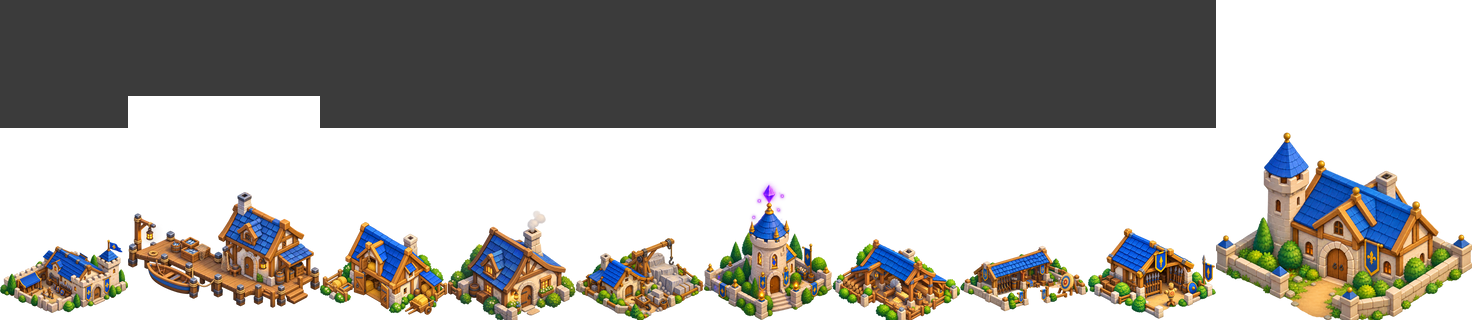
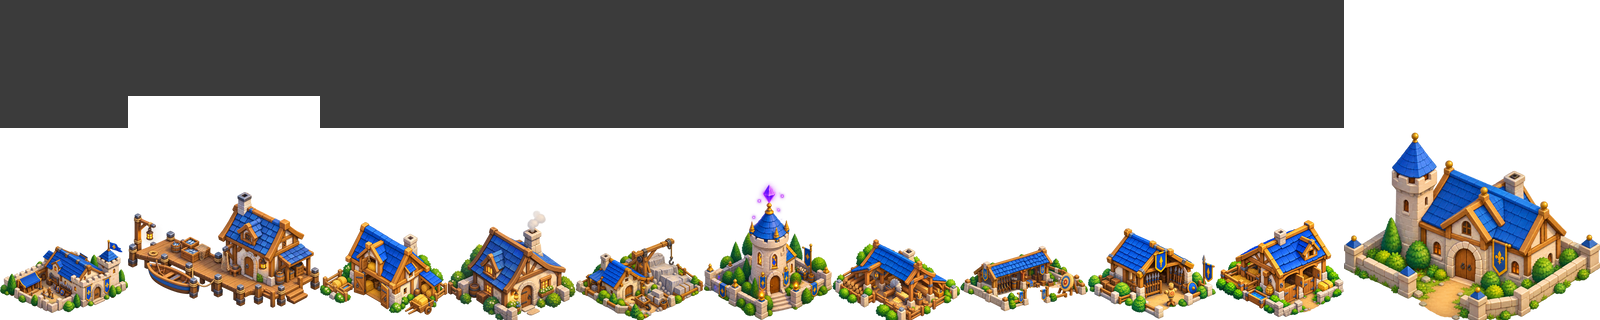
art(city): Stables

diff --git a/Docs/art/city/scene.html b/Docs/art/city/scene.html
@@ -46,7 +46,7 @@ code{font-family:ui-monospace,monospace;font-size:.92em}
 </style></head><body class="">
 <header>
   <h1>Kingdom — the isometric city set</h1>
-  <span class="meta">2:1 · tile 128×64 · <strong id="n">10/22</strong> sprites</span>
+  <span class="meta">2:1 · tile 128×64 · <strong id="n">11/22</strong> sprites</span>
   <span class="ctl">
     <button id="m1" aria-pressed="true">Showcase</button>
     <button id="m2" aria-pressed="false">Village</button>
@@ -118,7 +118,7 @@ code{font-family:ui-monospace,monospace;font-size:.92em}
       <figcaption>Spear Hall<em>1×1</em></figcaption>
     </figure><figure class="card" style="width:150px">
       <div class="slot" style="width:128px;height:192px">
-        <svg class="grid" width="128" height="192"><path class="t on" d="M64 128l64 32l-64 32l-64 -32z"/></svg><div class="miss" style="left:0px;top:128px;width:128px;height:64px"><span>soon</span></div></div>
+        <svg class="grid" width="128" height="192"><path class="t on" d="M64 128l64 32l-64 32l-64 -32z"/></svg><img src="stables_l1.png" alt="Stables" width="128" height="192"></div>
       <figcaption>Stables<em>1×1</em></figcaption>
     </figure><figure class="card" style="width:256px">
       <div class="slot" style="width:256px;height:320px">
@@ -146,7 +146,7 @@ code{font-family:ui-monospace,monospace;font-size:.92em}
       <figcaption>Well<em>1×1 · decoration</em></figcaption>
     </figure></div>
   <div id="v2" hidden><div class="stage" style="width:1688px;height:824px">
-<svg class="grid" width="1688" height="824"><path class="t" d="M844 300l64 32l-64 32l-64 -32z"/><path class="t" d="M780 332l64 32l-64 32l-64 -32z"/><path class="t" d="M716 364l64 32l-64 32l-64 -32z"/><path class="t on" d="M652 396l64 32l-64 32l-64 -32z"/><path class="t" d="M908 332l64 32l-64 32l-64 -32z"/><path class="t on" d="M844 364l64 32l-64 32l-64 -32z"/><path class="t on" d="M780 396l64 32l-64 32l-64 -32z"/><path class="t on" d="M716 428l64 32l-64 32l-64 -32z"/><path class="t" d="M972 364l64 32l-64 32l-64 -32z"/><path class="t on" d="M908 396l64 32l-64 32l-64 -32z"/><path class="t on" d="M844 428l64 32l-64 32l-64 -32z"/><path class="t on" d="M780 460l64 32l-64 32l-64 -32z"/><path class="t" d="M1036 396l64 32l-64 32l-64 -32z"/><path class="t on" d="M972 428l64 32l-64 32l-64 -32z"/><path class="t on" d="M908 460l64 32l-64 32l-64 -32z"/><path class="t" d="M844 492l64 32l-64 32l-64 -32z"/><path class="t" d="M908 204l64 32l-64 32l-64 -32z"/><path class="t" d="M844 236l64 32l-64 32l-64 -32z"/><path class="t on" d="M780 268l64 32l-64 32l-64 -32z"/><path class="t" d="M972 236l64 32l-64 32l-64 -32z"/><path class="t on" d="M908 268l64 32l-64 32l-64 -32z"/><path class="t" d="M1036 268l64 32l-64 32l-64 -32z"/><path class="t on" d="M972 300l64 32l-64 32l-64 -32z"/><path class="t" d="M1100 300l64 32l-64 32l-64 -32z"/><path class="t on" d="M1036 332l64 32l-64 32l-64 -32z"/><path class="t" d="M1164 332l64 32l-64 32l-64 -32z"/><path class="t" d="M1100 364l64 32l-64 32l-64 -32z"/><path class="t" d="M780 204l64 32l-64 32l-64 -32z"/><path class="t" d="M716 236l64 32l-64 32l-64 -32z"/><path class="t" d="M652 268l64 32l-64 32l-64 -32z"/><path class="t on" d="M716 300l64 32l-64 32l-64 -32z"/><path class="t" d="M588 300l64 32l-64 32l-64 -32z"/><path class="t" d="M652 332l64 32l-64 32l-64 -32z"/><path class="t" d="M1164 396l64 32l-64 32l-64 -32z"/><path class="t on" d="M1100 428l64 32l-64 32l-64 -32z"/><path class="t on" d="M1036 460l64 32l-64 32l-64 -32z"/><path class="t" d="M1228 428l64 32l-64 32l-64 -32z"/><path class="t" d="M1164 460l64 32l-64 32l-64 -32z"/><path class="t" d="M1100 492l64 32l-64 32l-64 -32z"/><path class="t on" d="M972 492l64 32l-64 32l-64 -32z"/><path class="t" d="M908 524l64 32l-64 32l-64 -32z"/><path class="t" d="M1036 524l64 32l-64 32l-64 -32z"/><path class="t" d="M972 556l64 32l-64 32l-64 -32z"/><path class="t on" d="M524 332l64 32l-64 32l-64 -32z"/><path class="t" d="M460 364l64 32l-64 32l-64 -32z"/><path class="t" d="M396 396l64 32l-64 32l-64 -32z"/><path class="t" d="M588 364l64 32l-64 32l-64 -32z"/><path class="t on" d="M524 396l64 32l-64 32l-64 -32z"/><path class="t" d="M460 428l64 32l-64 32l-64 -32z"/><path class="t" d="M588 428l64 32l-64 32l-64 -32z"/><path class="t" d="M524 460l64 32l-64 32l-64 -32z"/><path class="t" d="M716 492l64 32l-64 32l-64 -32z"/><path class="t on" d="M652 524l64 32l-64 32l-64 -32z"/><path class="t on" d="M780 524l64 32l-64 32l-64 -32z"/><path class="t" d="M716 556l64 32l-64 32l-64 -32z"/><path class="t" d="M844 556l64 32l-64 32l-64 -32z"/><path class="t" d="M780 588l64 32l-64 32l-64 -32z"/><path class="t on" d="M460 492l64 32l-64 32l-64 -32z"/><path class="t" d="M652 460l64 32l-64 32l-64 -32z"/><path class="t on" d="M588 492l64 32l-64 32l-64 -32z"/><path class="t" d="M524 524l64 32l-64 32l-64 -32z"/><path class="t" d="M588 556l64 32l-64 32l-64 -32z"/><path class="t on" d="M652 588l64 32l-64 32l-64 -32z"/><path class="t" d="M524 588l64 32l-64 32l-64 -32z"/><path class="t" d="M588 620l64 32l-64 32l-64 -32z"/><path class="t on" d="M716 620l64 32l-64 32l-64 -32z"/><path class="t" d="M652 652l64 32l-64 32l-64 -32z"/><path class="t" d="M844 620l64 32l-64 32l-64 -32z"/><path class="t" d="M780 652l64 32l-64 32l-64 -32z"/><path class="t" d="M716 684l64 32l-64 32l-64 -32z"/><path class="t" d="M396 460l64 32l-64 32l-64 -32z"/><path class="t" d="M332 492l64 32l-64 32l-64 -32z"/><path class="t" d="M396 524l64 32l-64 32l-64 -32z"/><path class="t" d="M460 556l64 32l-64 32l-64 -32z"/><path class="t" d="M1292 460l64 32l-64 32l-64 -32z"/><path class="t on" d="M1228 492l64 32l-64 32l-64 -32z"/><path class="t" d="M1164 524l64 32l-64 32l-64 -32z"/><path class="t" d="M1356 492l64 32l-64 32l-64 -32z"/><path class="t" d="M1292 524l64 32l-64 32l-64 -32z"/><path class="t" d="M1228 556l64 32l-64 32l-64 -32z"/><path class="t on" d="M1100 556l64 32l-64 32l-64 -32z"/><path class="t" d="M1036 588l64 32l-64 32l-64 -32z"/><path class="t" d="M1164 588l64 32l-64 32l-64 -32z"/><path class="t" d="M1100 620l64 32l-64 32l-64 -32z"/><path class="t" d="M908 588l64 32l-64 32l-64 -32z"/><path class="t on" d="M972 620l64 32l-64 32l-64 -32z"/><path class="t" d="M908 652l64 32l-64 32l-64 -32z"/><path class="t" d="M1036 652l64 32l-64 32l-64 -32z"/><path class="t" d="M972 684l64 32l-64 32l-64 -32z"/><path class="t" d="M1292 332l64 32l-64 32l-64 -32z"/><path class="t" d="M1228 364l64 32l-64 32l-64 -32z"/><path class="t" d="M1356 364l64 32l-64 32l-64 -32z"/><path class="t on" d="M1292 396l64 32l-64 32l-64 -32z"/><path class="t" d="M1420 396l64 32l-64 32l-64 -32z"/><path class="t" d="M1356 428l64 32l-64 32l-64 -32z"/><path class="t" d="M460 236l64 32l-64 32l-64 -32z"/><path class="t" d="M396 268l64 32l-64 32l-64 -32z"/><path class="t" d="M332 300l64 32l-64 32l-64 -32z"/><path class="t" d="M524 268l64 32l-64 32l-64 -32z"/><path class="t on" d="M460 300l64 32l-64 32l-64 -32z"/><path class="t" d="M396 332l64 32l-64 32l-64 -32z"/><path class="t" d="M268 332l64 32l-64 32l-64 -32z"/><path class="t" d="M204 364l64 32l-64 32l-64 -32z"/><path class="t" d="M140 396l64 32l-64 32l-64 -32z"/><path class="t" d="M76 428l64 32l-64 32l-64 -32z"/><path class="t" d="M332 364l64 32l-64 32l-64 -32z"/><path class="t on" d="M268 396l64 32l-64 32l-64 -32z"/><path class="t on" d="M204 428l64 32l-64 32l-64 -32z"/><path class="t" d="M140 460l64 32l-64 32l-64 -32z"/><path class="t on" d="M332 428l64 32l-64 32l-64 -32z"/><path class="t on" d="M268 460l64 32l-64 32l-64 -32z"/><path class="t" d="M204 492l64 32l-64 32l-64 -32z"/><path class="t" d="M268 524l64 32l-64 32l-64 -32z"/><path class="t" d="M1484 428l64 32l-64 32l-64 -32z"/><path class="t on" d="M1420 460l64 32l-64 32l-64 -32z"/><path class="t" d="M1548 460l64 32l-64 32l-64 -32z"/><path class="t on" d="M1484 492l64 32l-64 32l-64 -32z"/><path class="t" d="M1420 524l64 32l-64 32l-64 -32z"/><path class="t" d="M1612 492l64 32l-64 32l-64 -32z"/><path class="t" d="M1548 524l64 32l-64 32l-64 -32z"/><path class="t" d="M1484 556l64 32l-64 32l-64 -32z"/></svg><figure style="left:844px;top:140px;width:128px"><img src="housing_l1.png" alt="Housing" width="128" height="192"></figure><figure style="left:716px;top:140px;width:128px"><img src="housing_l1.png" alt="Housing" width="128" height="192"></figure><figure style="left:908px;top:172px;width:128px"><img src="housing_l1.png" alt="Housing" width="128" height="192"></figure><figure style="left:652px;top:172px;width:128px"><img src="housing_l1.png" alt="Housing" width="128" height="192"></figure><figure style="left:396px;top:172px;width:192px"><img src="docks_l1.png" alt="Docks" width="192" height="224"></figure><figure style="left:972px;top:204px;width:128px"><img src="housing_l1.png" alt="Housing" width="128" height="192"></figure><figure style="left:716px;top:172px;width:256px"><img src="townhall_l1.png" alt="Townhall" width="256" height="320"></figure><figure style="left:460px;top:268px;width:128px"><img src="quarry_l1.png" alt="Quarry" width="128" height="192"></figure><div class="miss" style="left:1228px;top:396px;width:128px;height:64px"><span>Rune Carver</span></div><div class="miss" style="left:140px;top:396px;width:256px;height:128px"><span>Shrine</span></div><div class="miss" style="left:588px;top:396px;width:128px;height:64px"><span>Garden</span></div><figure style="left:1036px;top:300px;width:128px"><img src="farm_l1.png" alt="Farm" width="128" height="192"></figure><div class="miss" style="left:844px;top:428px;width:256px;height:128px"><span>Plaza</span></div><div class="miss" style="left:652px;top:428px;width:128px;height:64px"><span>Statue</span></div><div class="miss" style="left:1356px;top:460px;width:192px;height:96px"><span>Orchard</span></div><div class="miss" style="left:716px;top:460px;width:128px;height:64px"><span>Well</span></div><figure style="left:908px;top:364px;width:128px"><img src="sawmill_l1.png" alt="Sawmill" width="128" height="192"></figure><figure style="left:524px;top:364px;width:128px"><img src="barracks_l1.png" alt="Barracks" width="128" height="192"></figure><div class="miss" style="left:396px;top:492px;width:128px;height:64px"><span>Infirmary</span></div><div class="miss" style="left:1164px;top:492px;width:128px;height:64px"><span>Carpenter</span></div><figure style="left:716px;top:396px;width:128px"><img src="sanctum_l1.png" alt="Sanctum" width="128" height="192"></figure><figure style="left:588px;top:396px;width:128px"><img src="spear_hall_l1.png" alt="Spear Hall" width="128" height="192"></figure><div class="miss" style="left:1036px;top:556px;width:128px;height:64px"><span>Mason's Yard</span></div><figure style="left:588px;top:460px;width:128px"><img src="shooting_grounds_l1.png" alt="Shooting Grounds" width="128" height="192"></figure><div class="miss" style="left:652px;top:620px;width:128px;height:64px"><span>Stables</span></div><div class="miss" style="left:908px;top:620px;width:128px;height:64px"><span>Smelter</span></div></div></div>
+<svg class="grid" width="1688" height="824"><path class="t" d="M844 300l64 32l-64 32l-64 -32z"/><path class="t" d="M780 332l64 32l-64 32l-64 -32z"/><path class="t" d="M716 364l64 32l-64 32l-64 -32z"/><path class="t on" d="M652 396l64 32l-64 32l-64 -32z"/><path class="t" d="M908 332l64 32l-64 32l-64 -32z"/><path class="t on" d="M844 364l64 32l-64 32l-64 -32z"/><path class="t on" d="M780 396l64 32l-64 32l-64 -32z"/><path class="t on" d="M716 428l64 32l-64 32l-64 -32z"/><path class="t" d="M972 364l64 32l-64 32l-64 -32z"/><path class="t on" d="M908 396l64 32l-64 32l-64 -32z"/><path class="t on" d="M844 428l64 32l-64 32l-64 -32z"/><path class="t on" d="M780 460l64 32l-64 32l-64 -32z"/><path class="t" d="M1036 396l64 32l-64 32l-64 -32z"/><path class="t on" d="M972 428l64 32l-64 32l-64 -32z"/><path class="t on" d="M908 460l64 32l-64 32l-64 -32z"/><path class="t" d="M844 492l64 32l-64 32l-64 -32z"/><path class="t" d="M908 204l64 32l-64 32l-64 -32z"/><path class="t" d="M844 236l64 32l-64 32l-64 -32z"/><path class="t on" d="M780 268l64 32l-64 32l-64 -32z"/><path class="t" d="M972 236l64 32l-64 32l-64 -32z"/><path class="t on" d="M908 268l64 32l-64 32l-64 -32z"/><path class="t" d="M1036 268l64 32l-64 32l-64 -32z"/><path class="t on" d="M972 300l64 32l-64 32l-64 -32z"/><path class="t" d="M1100 300l64 32l-64 32l-64 -32z"/><path class="t on" d="M1036 332l64 32l-64 32l-64 -32z"/><path class="t" d="M1164 332l64 32l-64 32l-64 -32z"/><path class="t" d="M1100 364l64 32l-64 32l-64 -32z"/><path class="t" d="M780 204l64 32l-64 32l-64 -32z"/><path class="t" d="M716 236l64 32l-64 32l-64 -32z"/><path class="t" d="M652 268l64 32l-64 32l-64 -32z"/><path class="t on" d="M716 300l64 32l-64 32l-64 -32z"/><path class="t" d="M588 300l64 32l-64 32l-64 -32z"/><path class="t" d="M652 332l64 32l-64 32l-64 -32z"/><path class="t" d="M1164 396l64 32l-64 32l-64 -32z"/><path class="t on" d="M1100 428l64 32l-64 32l-64 -32z"/><path class="t on" d="M1036 460l64 32l-64 32l-64 -32z"/><path class="t" d="M1228 428l64 32l-64 32l-64 -32z"/><path class="t" d="M1164 460l64 32l-64 32l-64 -32z"/><path class="t" d="M1100 492l64 32l-64 32l-64 -32z"/><path class="t on" d="M972 492l64 32l-64 32l-64 -32z"/><path class="t" d="M908 524l64 32l-64 32l-64 -32z"/><path class="t" d="M1036 524l64 32l-64 32l-64 -32z"/><path class="t" d="M972 556l64 32l-64 32l-64 -32z"/><path class="t on" d="M524 332l64 32l-64 32l-64 -32z"/><path class="t" d="M460 364l64 32l-64 32l-64 -32z"/><path class="t" d="M396 396l64 32l-64 32l-64 -32z"/><path class="t" d="M588 364l64 32l-64 32l-64 -32z"/><path class="t on" d="M524 396l64 32l-64 32l-64 -32z"/><path class="t" d="M460 428l64 32l-64 32l-64 -32z"/><path class="t" d="M588 428l64 32l-64 32l-64 -32z"/><path class="t" d="M524 460l64 32l-64 32l-64 -32z"/><path class="t" d="M716 492l64 32l-64 32l-64 -32z"/><path class="t on" d="M652 524l64 32l-64 32l-64 -32z"/><path class="t on" d="M780 524l64 32l-64 32l-64 -32z"/><path class="t" d="M716 556l64 32l-64 32l-64 -32z"/><path class="t" d="M844 556l64 32l-64 32l-64 -32z"/><path class="t" d="M780 588l64 32l-64 32l-64 -32z"/><path class="t on" d="M460 492l64 32l-64 32l-64 -32z"/><path class="t" d="M652 460l64 32l-64 32l-64 -32z"/><path class="t on" d="M588 492l64 32l-64 32l-64 -32z"/><path class="t" d="M524 524l64 32l-64 32l-64 -32z"/><path class="t" d="M588 556l64 32l-64 32l-64 -32z"/><path class="t on" d="M652 588l64 32l-64 32l-64 -32z"/><path class="t" d="M524 588l64 32l-64 32l-64 -32z"/><path class="t" d="M588 620l64 32l-64 32l-64 -32z"/><path class="t on" d="M716 620l64 32l-64 32l-64 -32z"/><path class="t" d="M652 652l64 32l-64 32l-64 -32z"/><path class="t" d="M844 620l64 32l-64 32l-64 -32z"/><path class="t" d="M780 652l64 32l-64 32l-64 -32z"/><path class="t" d="M716 684l64 32l-64 32l-64 -32z"/><path class="t" d="M396 460l64 32l-64 32l-64 -32z"/><path class="t" d="M332 492l64 32l-64 32l-64 -32z"/><path class="t" d="M396 524l64 32l-64 32l-64 -32z"/><path class="t" d="M460 556l64 32l-64 32l-64 -32z"/><path class="t" d="M1292 460l64 32l-64 32l-64 -32z"/><path class="t on" d="M1228 492l64 32l-64 32l-64 -32z"/><path class="t" d="M1164 524l64 32l-64 32l-64 -32z"/><path class="t" d="M1356 492l64 32l-64 32l-64 -32z"/><path class="t" d="M1292 524l64 32l-64 32l-64 -32z"/><path class="t" d="M1228 556l64 32l-64 32l-64 -32z"/><path class="t on" d="M1100 556l64 32l-64 32l-64 -32z"/><path class="t" d="M1036 588l64 32l-64 32l-64 -32z"/><path class="t" d="M1164 588l64 32l-64 32l-64 -32z"/><path class="t" d="M1100 620l64 32l-64 32l-64 -32z"/><path class="t" d="M908 588l64 32l-64 32l-64 -32z"/><path class="t on" d="M972 620l64 32l-64 32l-64 -32z"/><path class="t" d="M908 652l64 32l-64 32l-64 -32z"/><path class="t" d="M1036 652l64 32l-64 32l-64 -32z"/><path class="t" d="M972 684l64 32l-64 32l-64 -32z"/><path class="t" d="M1292 332l64 32l-64 32l-64 -32z"/><path class="t" d="M1228 364l64 32l-64 32l-64 -32z"/><path class="t" d="M1356 364l64 32l-64 32l-64 -32z"/><path class="t on" d="M1292 396l64 32l-64 32l-64 -32z"/><path class="t" d="M1420 396l64 32l-64 32l-64 -32z"/><path class="t" d="M1356 428l64 32l-64 32l-64 -32z"/><path class="t" d="M460 236l64 32l-64 32l-64 -32z"/><path class="t" d="M396 268l64 32l-64 32l-64 -32z"/><path class="t" d="M332 300l64 32l-64 32l-64 -32z"/><path class="t" d="M524 268l64 32l-64 32l-64 -32z"/><path class="t on" d="M460 300l64 32l-64 32l-64 -32z"/><path class="t" d="M396 332l64 32l-64 32l-64 -32z"/><path class="t" d="M268 332l64 32l-64 32l-64 -32z"/><path class="t" d="M204 364l64 32l-64 32l-64 -32z"/><path class="t" d="M140 396l64 32l-64 32l-64 -32z"/><path class="t" d="M76 428l64 32l-64 32l-64 -32z"/><path class="t" d="M332 364l64 32l-64 32l-64 -32z"/><path class="t on" d="M268 396l64 32l-64 32l-64 -32z"/><path class="t on" d="M204 428l64 32l-64 32l-64 -32z"/><path class="t" d="M140 460l64 32l-64 32l-64 -32z"/><path class="t on" d="M332 428l64 32l-64 32l-64 -32z"/><path class="t on" d="M268 460l64 32l-64 32l-64 -32z"/><path class="t" d="M204 492l64 32l-64 32l-64 -32z"/><path class="t" d="M268 524l64 32l-64 32l-64 -32z"/><path class="t" d="M1484 428l64 32l-64 32l-64 -32z"/><path class="t on" d="M1420 460l64 32l-64 32l-64 -32z"/><path class="t" d="M1548 460l64 32l-64 32l-64 -32z"/><path class="t on" d="M1484 492l64 32l-64 32l-64 -32z"/><path class="t" d="M1420 524l64 32l-64 32l-64 -32z"/><path class="t" d="M1612 492l64 32l-64 32l-64 -32z"/><path class="t" d="M1548 524l64 32l-64 32l-64 -32z"/><path class="t" d="M1484 556l64 32l-64 32l-64 -32z"/></svg><figure style="left:844px;top:140px;width:128px"><img src="housing_l1.png" alt="Housing" width="128" height="192"></figure><figure style="left:716px;top:140px;width:128px"><img src="housing_l1.png" alt="Housing" width="128" height="192"></figure><figure style="left:908px;top:172px;width:128px"><img src="housing_l1.png" alt="Housing" width="128" height="192"></figure><figure style="left:652px;top:172px;width:128px"><img src="housing_l1.png" alt="Housing" width="128" height="192"></figure><figure style="left:396px;top:172px;width:192px"><img src="docks_l1.png" alt="Docks" width="192" height="224"></figure><figure style="left:972px;top:204px;width:128px"><img src="housing_l1.png" alt="Housing" width="128" height="192"></figure><figure style="left:716px;top:172px;width:256px"><img src="townhall_l1.png" alt="Townhall" width="256" height="320"></figure><figure style="left:460px;top:268px;width:128px"><img src="quarry_l1.png" alt="Quarry" width="128" height="192"></figure><div class="miss" style="left:1228px;top:396px;width:128px;height:64px"><span>Rune Carver</span></div><div class="miss" style="left:140px;top:396px;width:256px;height:128px"><span>Shrine</span></div><div class="miss" style="left:588px;top:396px;width:128px;height:64px"><span>Garden</span></div><figure style="left:1036px;top:300px;width:128px"><img src="farm_l1.png" alt="Farm" width="128" height="192"></figure><div class="miss" style="left:844px;top:428px;width:256px;height:128px"><span>Plaza</span></div><div class="miss" style="left:652px;top:428px;width:128px;height:64px"><span>Statue</span></div><div class="miss" style="left:1356px;top:460px;width:192px;height:96px"><span>Orchard</span></div><div class="miss" style="left:716px;top:460px;width:128px;height:64px"><span>Well</span></div><figure style="left:908px;top:364px;width:128px"><img src="sawmill_l1.png" alt="Sawmill" width="128" height="192"></figure><figure style="left:524px;top:364px;width:128px"><img src="barracks_l1.png" alt="Barracks" width="128" height="192"></figure><div class="miss" style="left:396px;top:492px;width:128px;height:64px"><span>Infirmary</span></div><div class="miss" style="left:1164px;top:492px;width:128px;height:64px"><span>Carpenter</span></div><figure style="left:716px;top:396px;width:128px"><img src="sanctum_l1.png" alt="Sanctum" width="128" height="192"></figure><figure style="left:588px;top:396px;width:128px"><img src="spear_hall_l1.png" alt="Spear Hall" width="128" height="192"></figure><div class="miss" style="left:1036px;top:556px;width:128px;height:64px"><span>Mason's Yard</span></div><figure style="left:588px;top:460px;width:128px"><img src="shooting_grounds_l1.png" alt="Shooting Grounds" width="128" height="192"></figure><figure style="left:652px;top:492px;width:128px"><img src="stables_l1.png" alt="Stables" width="128" height="192"></figure><div class="miss" style="left:908px;top:620px;width:128px;height:64px"><span>Smelter</span></div></div></div>
 </main>
 <footer>
   Every sprite is placed with the renderer's own formula —
